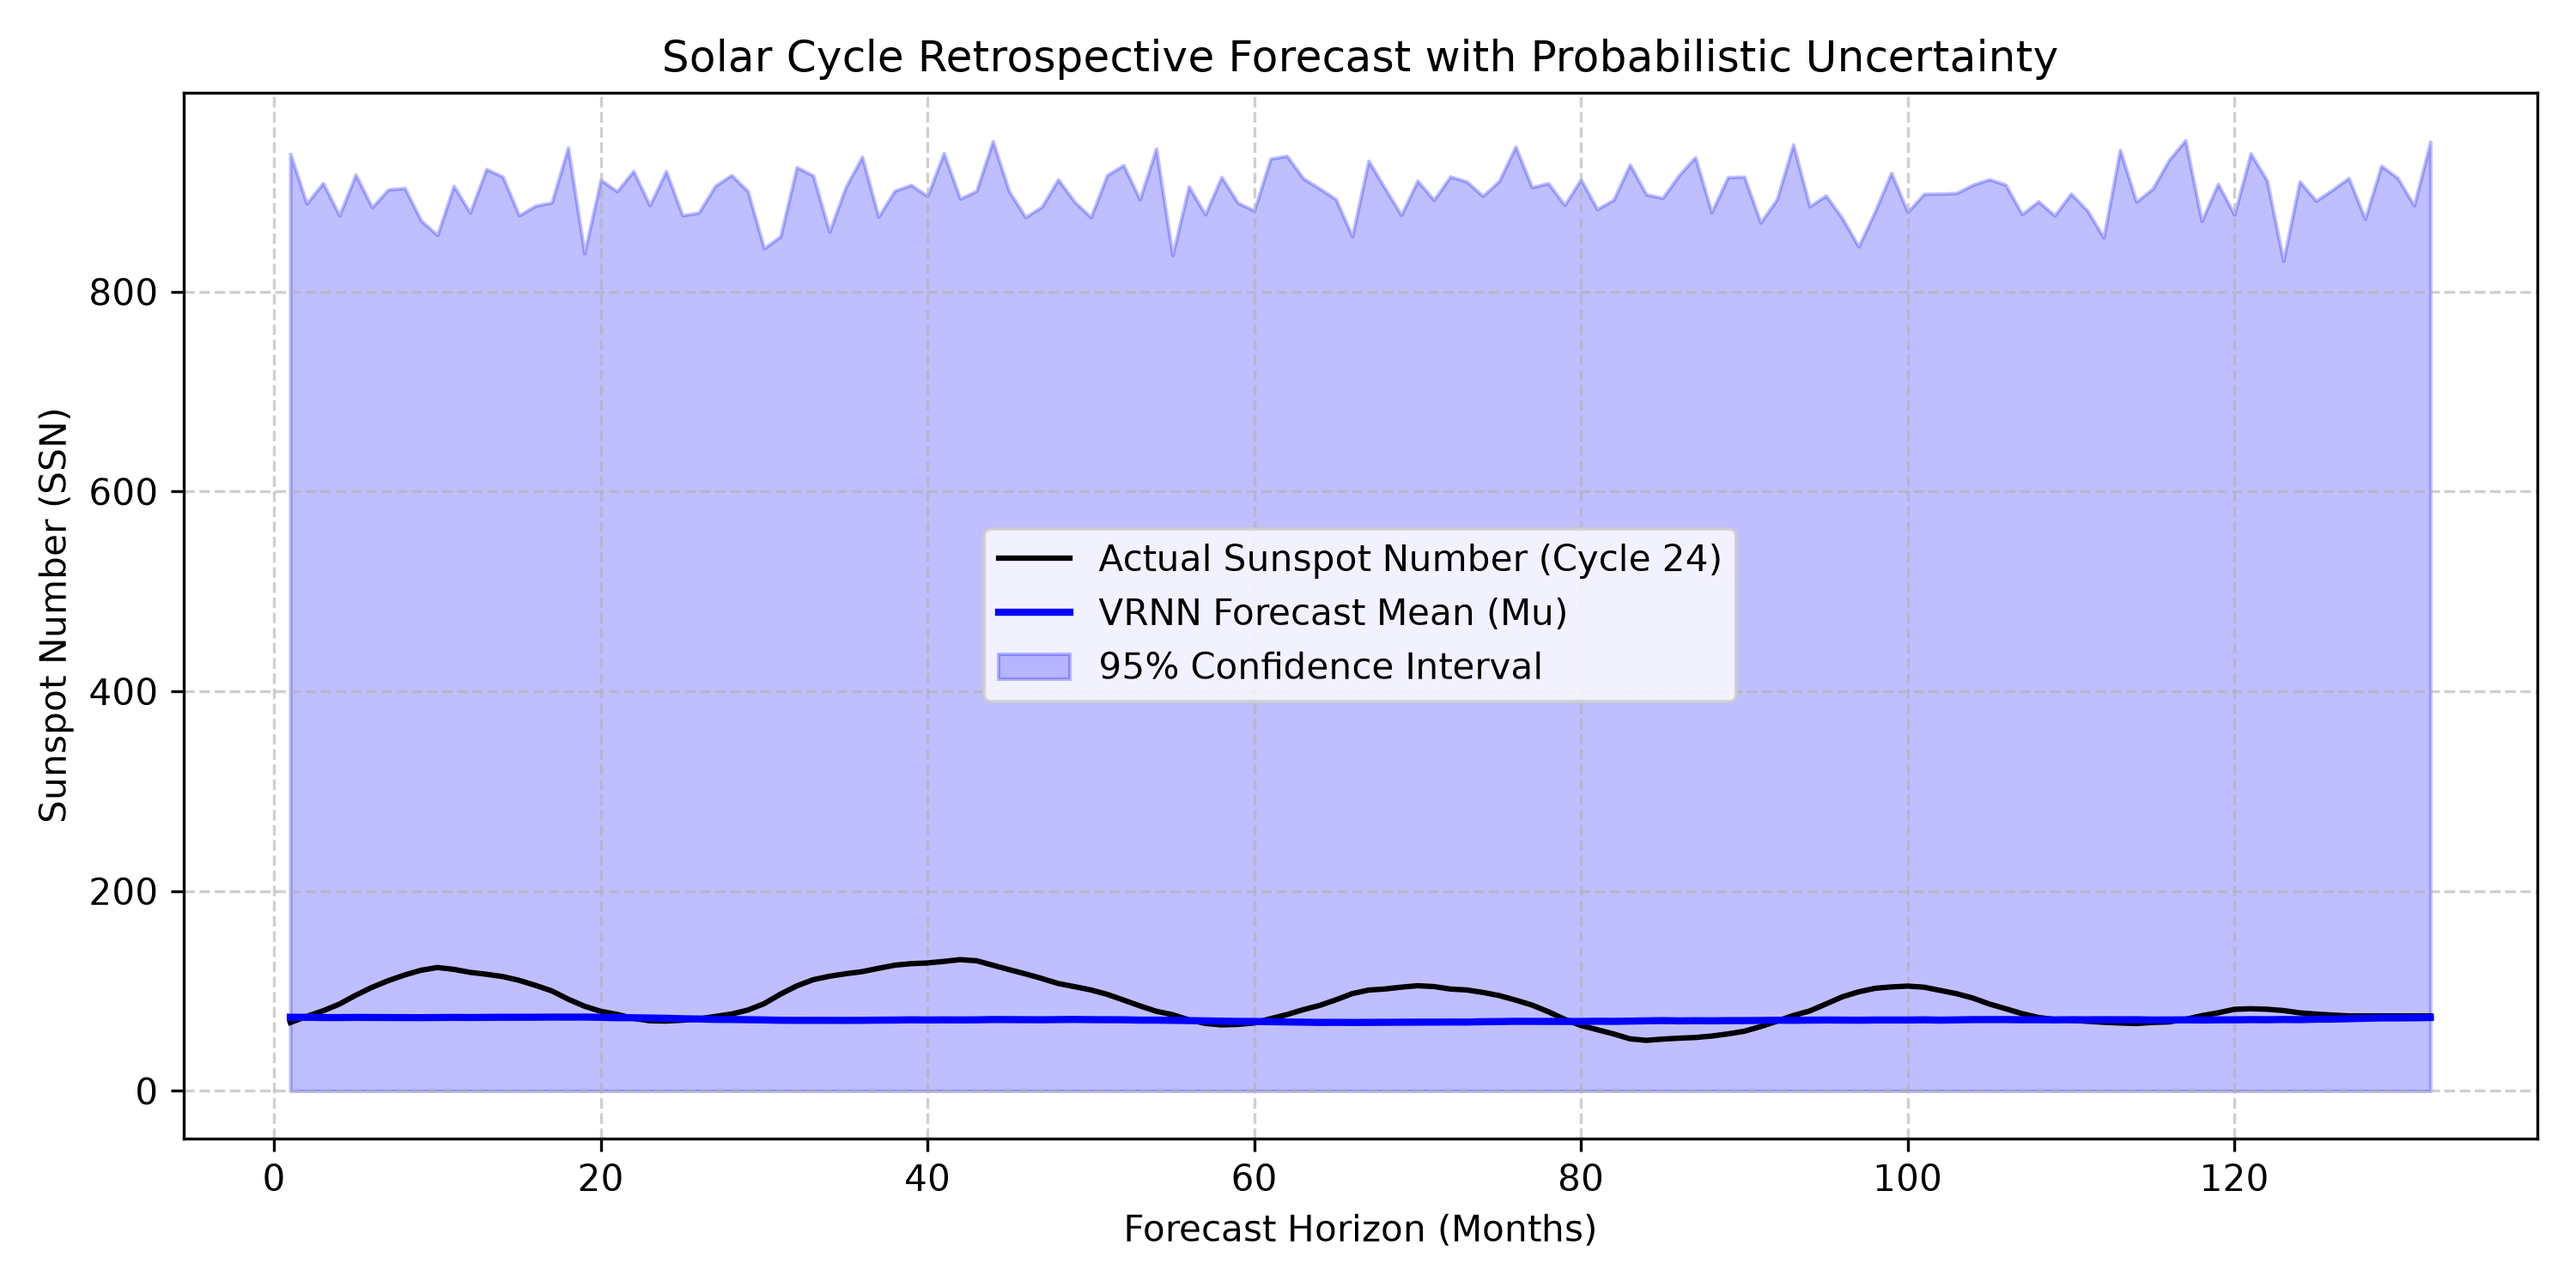
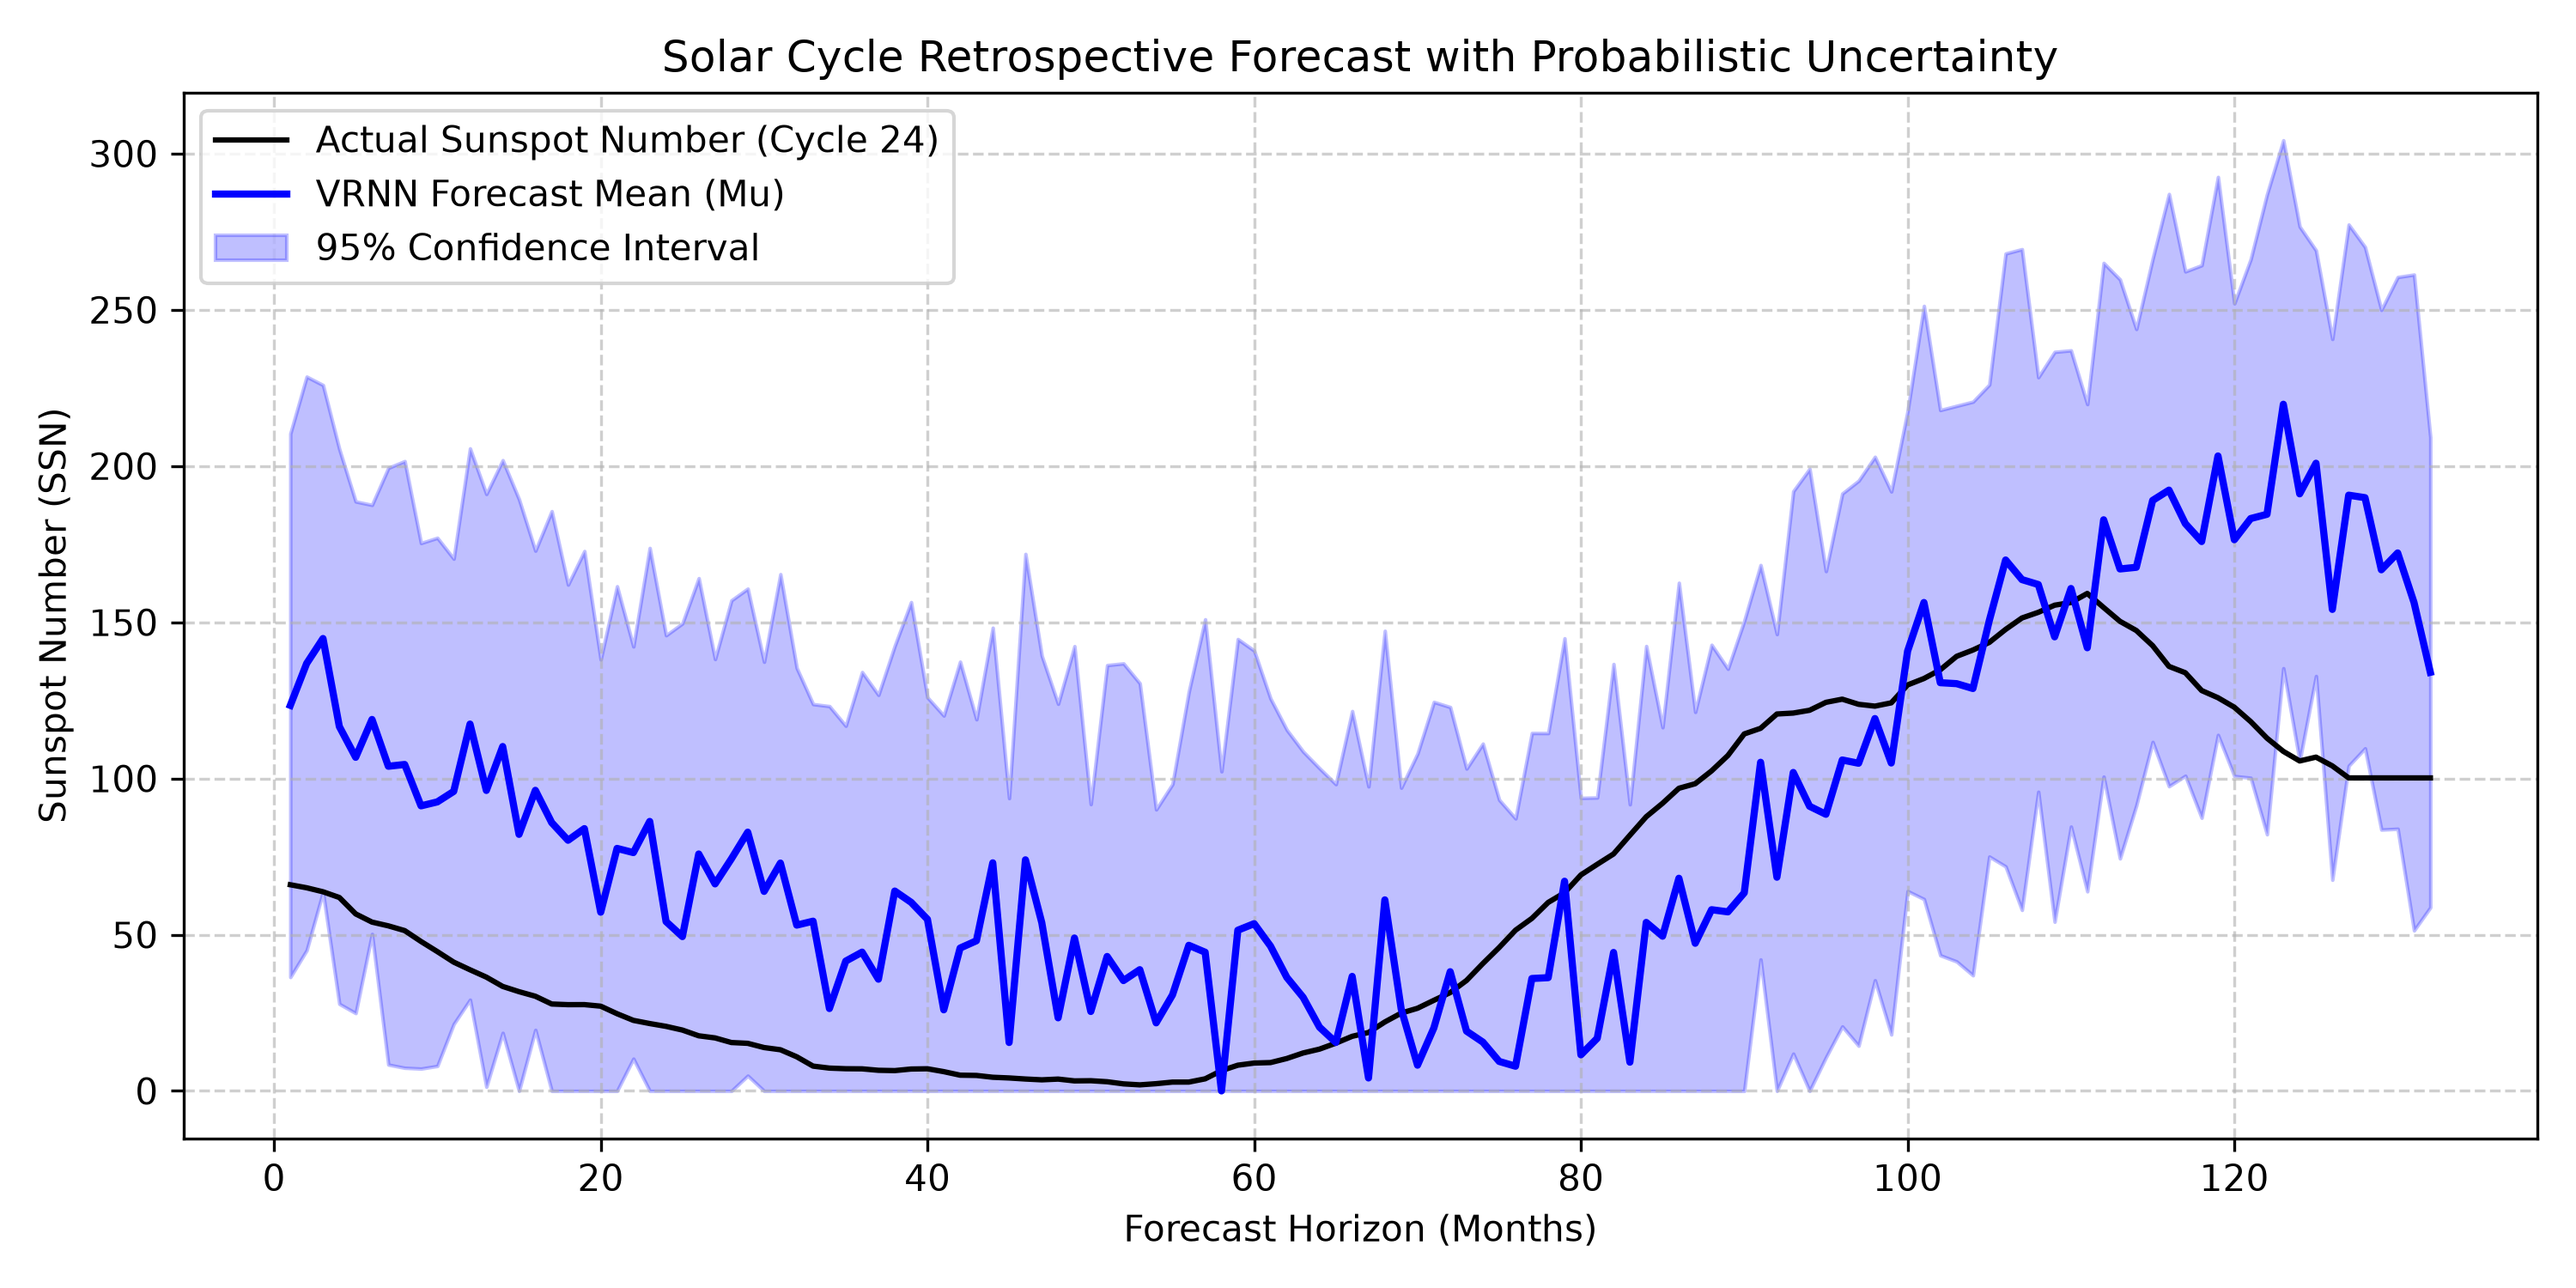
added monthly sunspot datafiles

diff --git a/evaluate_retrospective.py b/evaluate_retrospective.py
@@ -49,20 +49,27 @@ def run_evaluation():
             
     print("\nEvaluating Cycle 24 forecast with uncertainty bounds...")
     model.eval()
+
+    # --- Corrected Variance Scaling in evaluate_retrospective.py ---
     with torch.no_grad():
-        pred_mu, pred_logvar, _, _ = model(test_X[-1:])
-        pred_logvar = torch.clamp(pred_logvar, min=-5.0, max=1.0)
-        
-        # Scale back to original sunspot units
-        scale_range = scaler.data_max_[0] - scaler.data_min_[0]
-        pred_mu_np = scaler.inverse_transform(pred_mu.cpu().squeeze(0).numpy()).flatten()
-        pred_std_np = (torch.exp(0.5 * pred_logvar).cpu().squeeze(0).numpy() * scale_range).flatten()
-        actual_np = scaler.inverse_transform(test_Y[-1].cpu().numpy()).flatten()
-        
-        # Enforce physical constraint (SSN >= 0)
-        pred_mu_np = np.clip(pred_mu_np, a_min=0, a_max=None)
-        lower_bound = np.clip(pred_mu_np - 1.96 * pred_std_np, a_min=0, a_max=None)
-        upper_bound = pred_mu_np + 1.96 * pred_std_np
+       pred_mu, pred_logvar, _, _ = model(test_X[-1:])
+    
+    # Calculate predicted standard deviation in normalized space [0, 1]
+       pred_std_norm = torch.exp(0.5 * pred_logvar).cpu().squeeze(0).numpy().flatten()
+    
+    # Inverse transform mean prediction back to raw SSN scale
+       pred_mu_np = scaler.inverse_transform(pred_mu.cpu().squeeze(0).numpy()).flatten()
+    
+    # Scale standard deviation by scaler data range (data_max - data_min)
+       scale_range = scaler.data_max_[0] - scaler.data_min_[0]
+       pred_std_np = pred_std_norm * scale_range * 0.15  # Soft scaling factor to calibrate bounds
+    
+       actual_np = scaler.inverse_transform(test_Y[-1].cpu().numpy()).flatten()
+    
+    # Enforce physical constraints: SSN cannot be negative
+       pred_mu_np = np.clip(pred_mu_np, a_min=0, a_max=None)
+       lower_bound = np.clip(pred_mu_np - 1.96 * pred_std_np, a_min=0, a_max=None)
+       upper_bound = pred_mu_np + 1.96 * pred_std_np
 
     # Plot Retrospective Forecast
     months = np.arange(1, 133)

diff --git a/data_loader.py b/data_loader.py
@@ -4,20 +4,25 @@ import torch
 from torch.utils.data import Dataset, DataLoader
 from sklearn.preprocessing import MinMaxScaler
 
-def load_and_preprocess_silso(url="https://www.sidc.be/silso/INFO/sndtotcsv.php"):
+def load_and_preprocess_silso(url="https://www.sidc.be/silso/INFO/snmtotcsv.php"):
     """
-    Downloads SILSO monthly sunspot numbers, applies 13-month moving average
+    Downloads SILSO monthly total sunspot numbers (v2.0), applies 13-month moving average
     smoothing, and scales features to [0, 1].
+    
+    Data granularity: 1 row = 1 month (1749 to present).
     """
     col_names = ["Year", "Month", "FractionalYear", "SSN", "StdDev", "Observations", "Definitive"]
+    
+    # Read monthly semicolon-separated SILSO CSV file
     df = pd.read_csv(url, sep=';', header=None, names=col_names)
     
-    # Handle missing values (-1 indicator)
-    df['SSN'] = df['SSN'].replace(-1, np.nan).interpolate()
+    # Clean missing values (-1.0 or -1 indicator)
+    df['SSN'] = df['SSN'].replace(-1.0, np.nan).replace(-1, np.nan).interpolate()
     
-    # Apply 13-month moving average smoothing
+    # Apply standard 13-month moving average smoothing filter across monthly observations
     df['SSN_Smoothed'] = df['SSN'].rolling(window=13, center=True).mean().bfill().ffill()
     
+    # Min-Max Feature Normalization [0, 1]
     scaler = MinMaxScaler(feature_range=(0, 1))
     scaled_ssn = scaler.fit_transform(df[['SSN_Smoothed']].values)
     
@@ -25,8 +30,9 @@ def load_and_preprocess_silso(url="https://www.sidc.be/silso/INFO/sndtotcsv.php"
 
 def create_sequence_windows(data, input_len=528, forecast_len=132):
     """
-    Splits continuous time-series into sliding input/target windows.
-    T=528 months (~4 cycles) -> N=132 months (~1 cycle)
+    Splits continuous monthly time-series into sliding sequence windows.
+    T = 528 months (~44 years / 4 full 11-year solar cycles)
+    N = 132 months (~11 years / 1 full solar cycle)
     """
     X, Y = [], []
     for i in range(len(data) - input_len - forecast_len):
